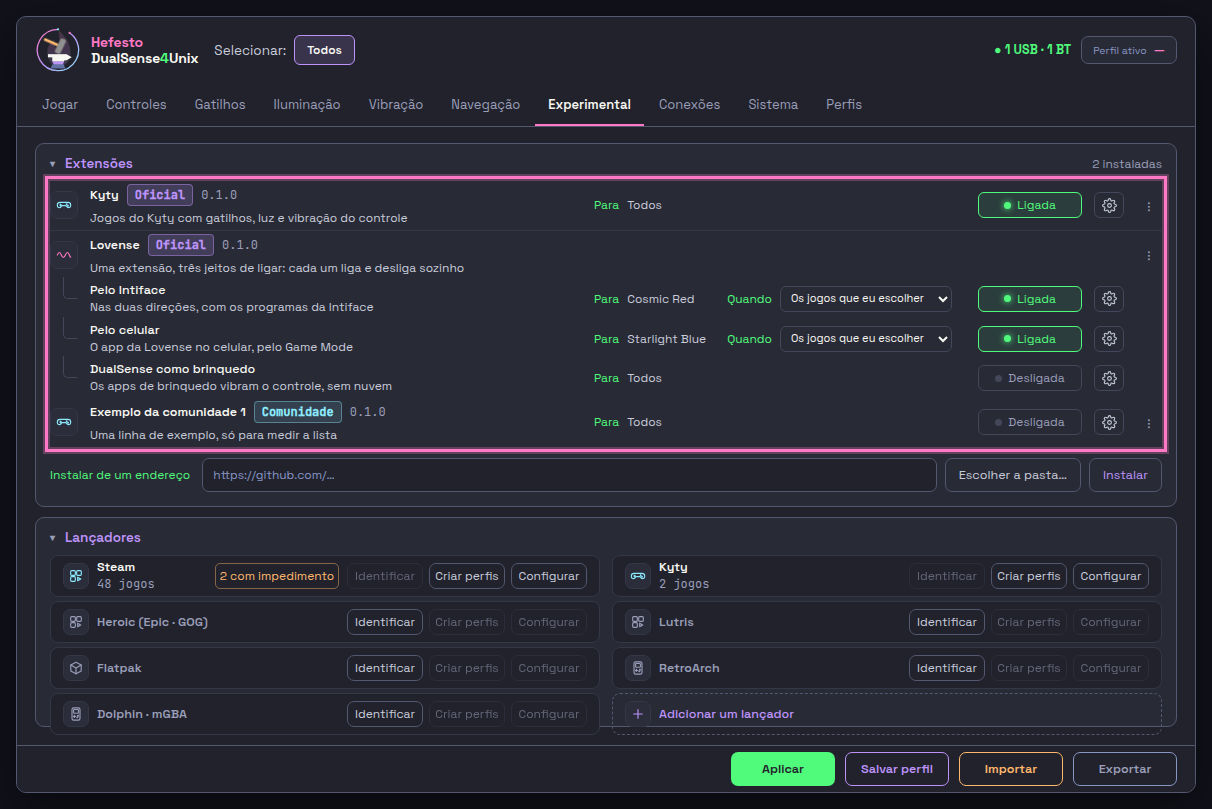
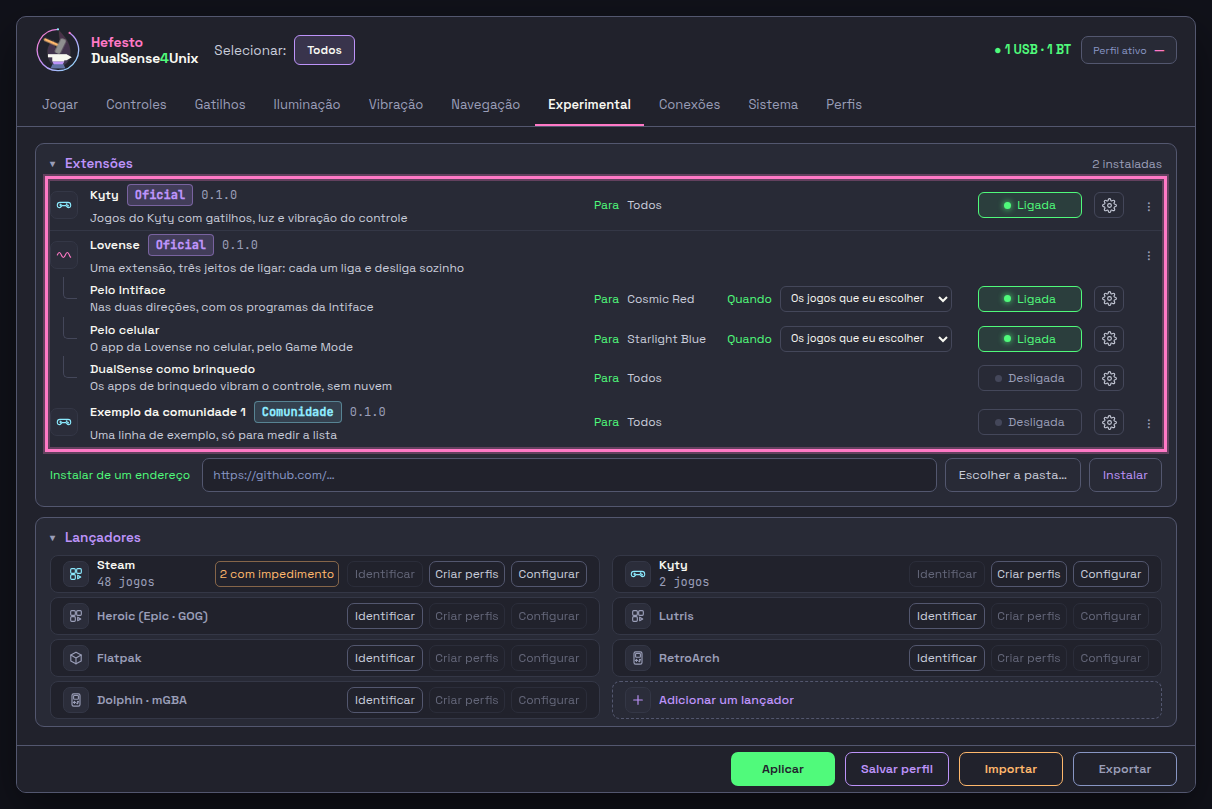
docs(volta): com seis extensões, a última fileira dos lançadores não sai mais da moldura

Changed region(s): [[0.0611, 0.6799, 0.4884, 0.8962], [0.519, 0.6799, 0.9464, 0.8962], [0.1832, 0.6799, 0.2748, 0.7417]]

diff --git a/docs/research/2026-10-12-a-volta/paginas/todo-das-abas/todo/07-lancadores.html b/docs/research/2026-10-12-a-volta/paginas/todo-das-abas/todo/07-lancadores.html
@@ -2119,6 +2119,10 @@ button[data-dica],a[data-dica],select[data-dica],input[data-dica],[role="button"
   @media (max-height:780px){.ext{min-height:0;padding:4px 0}.ext-forma{padding:2px 0}.ext-ramo{margin-top:-4px;height:calc(50% + 4px)}
     /* baixo, a frase de cada forma vira só a dica (o texto está no `data-dica`): cabem seis linhas sem rolar */
     .ext-forma .ext-faz,.ext-grupo .ext-faz{display:none}.ext-forma{min-height:32px}.miolo{gap:10px}.lanc-fila{gap:4px 12px}}
+  /* com a sexta extensão, o piso de 42 px por cartão empurrava a última fileira dos lançadores para fora da moldura
+     (9 px em 1212x809): o piso desce, e o 1fr continua enchendo a altura quando sobra */
+  @media (max-height:860px){.lanc-fila{grid-auto-rows:minmax(38px,1fr)}}
+  @media (max-height:780px){.lanc-fila{grid-auto-rows:minmax(32px,1fr)}}
 </style>
 <style data-aba="rodada-3-letra">
   /* Rodada 3 (14/10): nenhuma letra abaixo de 12 px nesta aba, como ela pediu */
